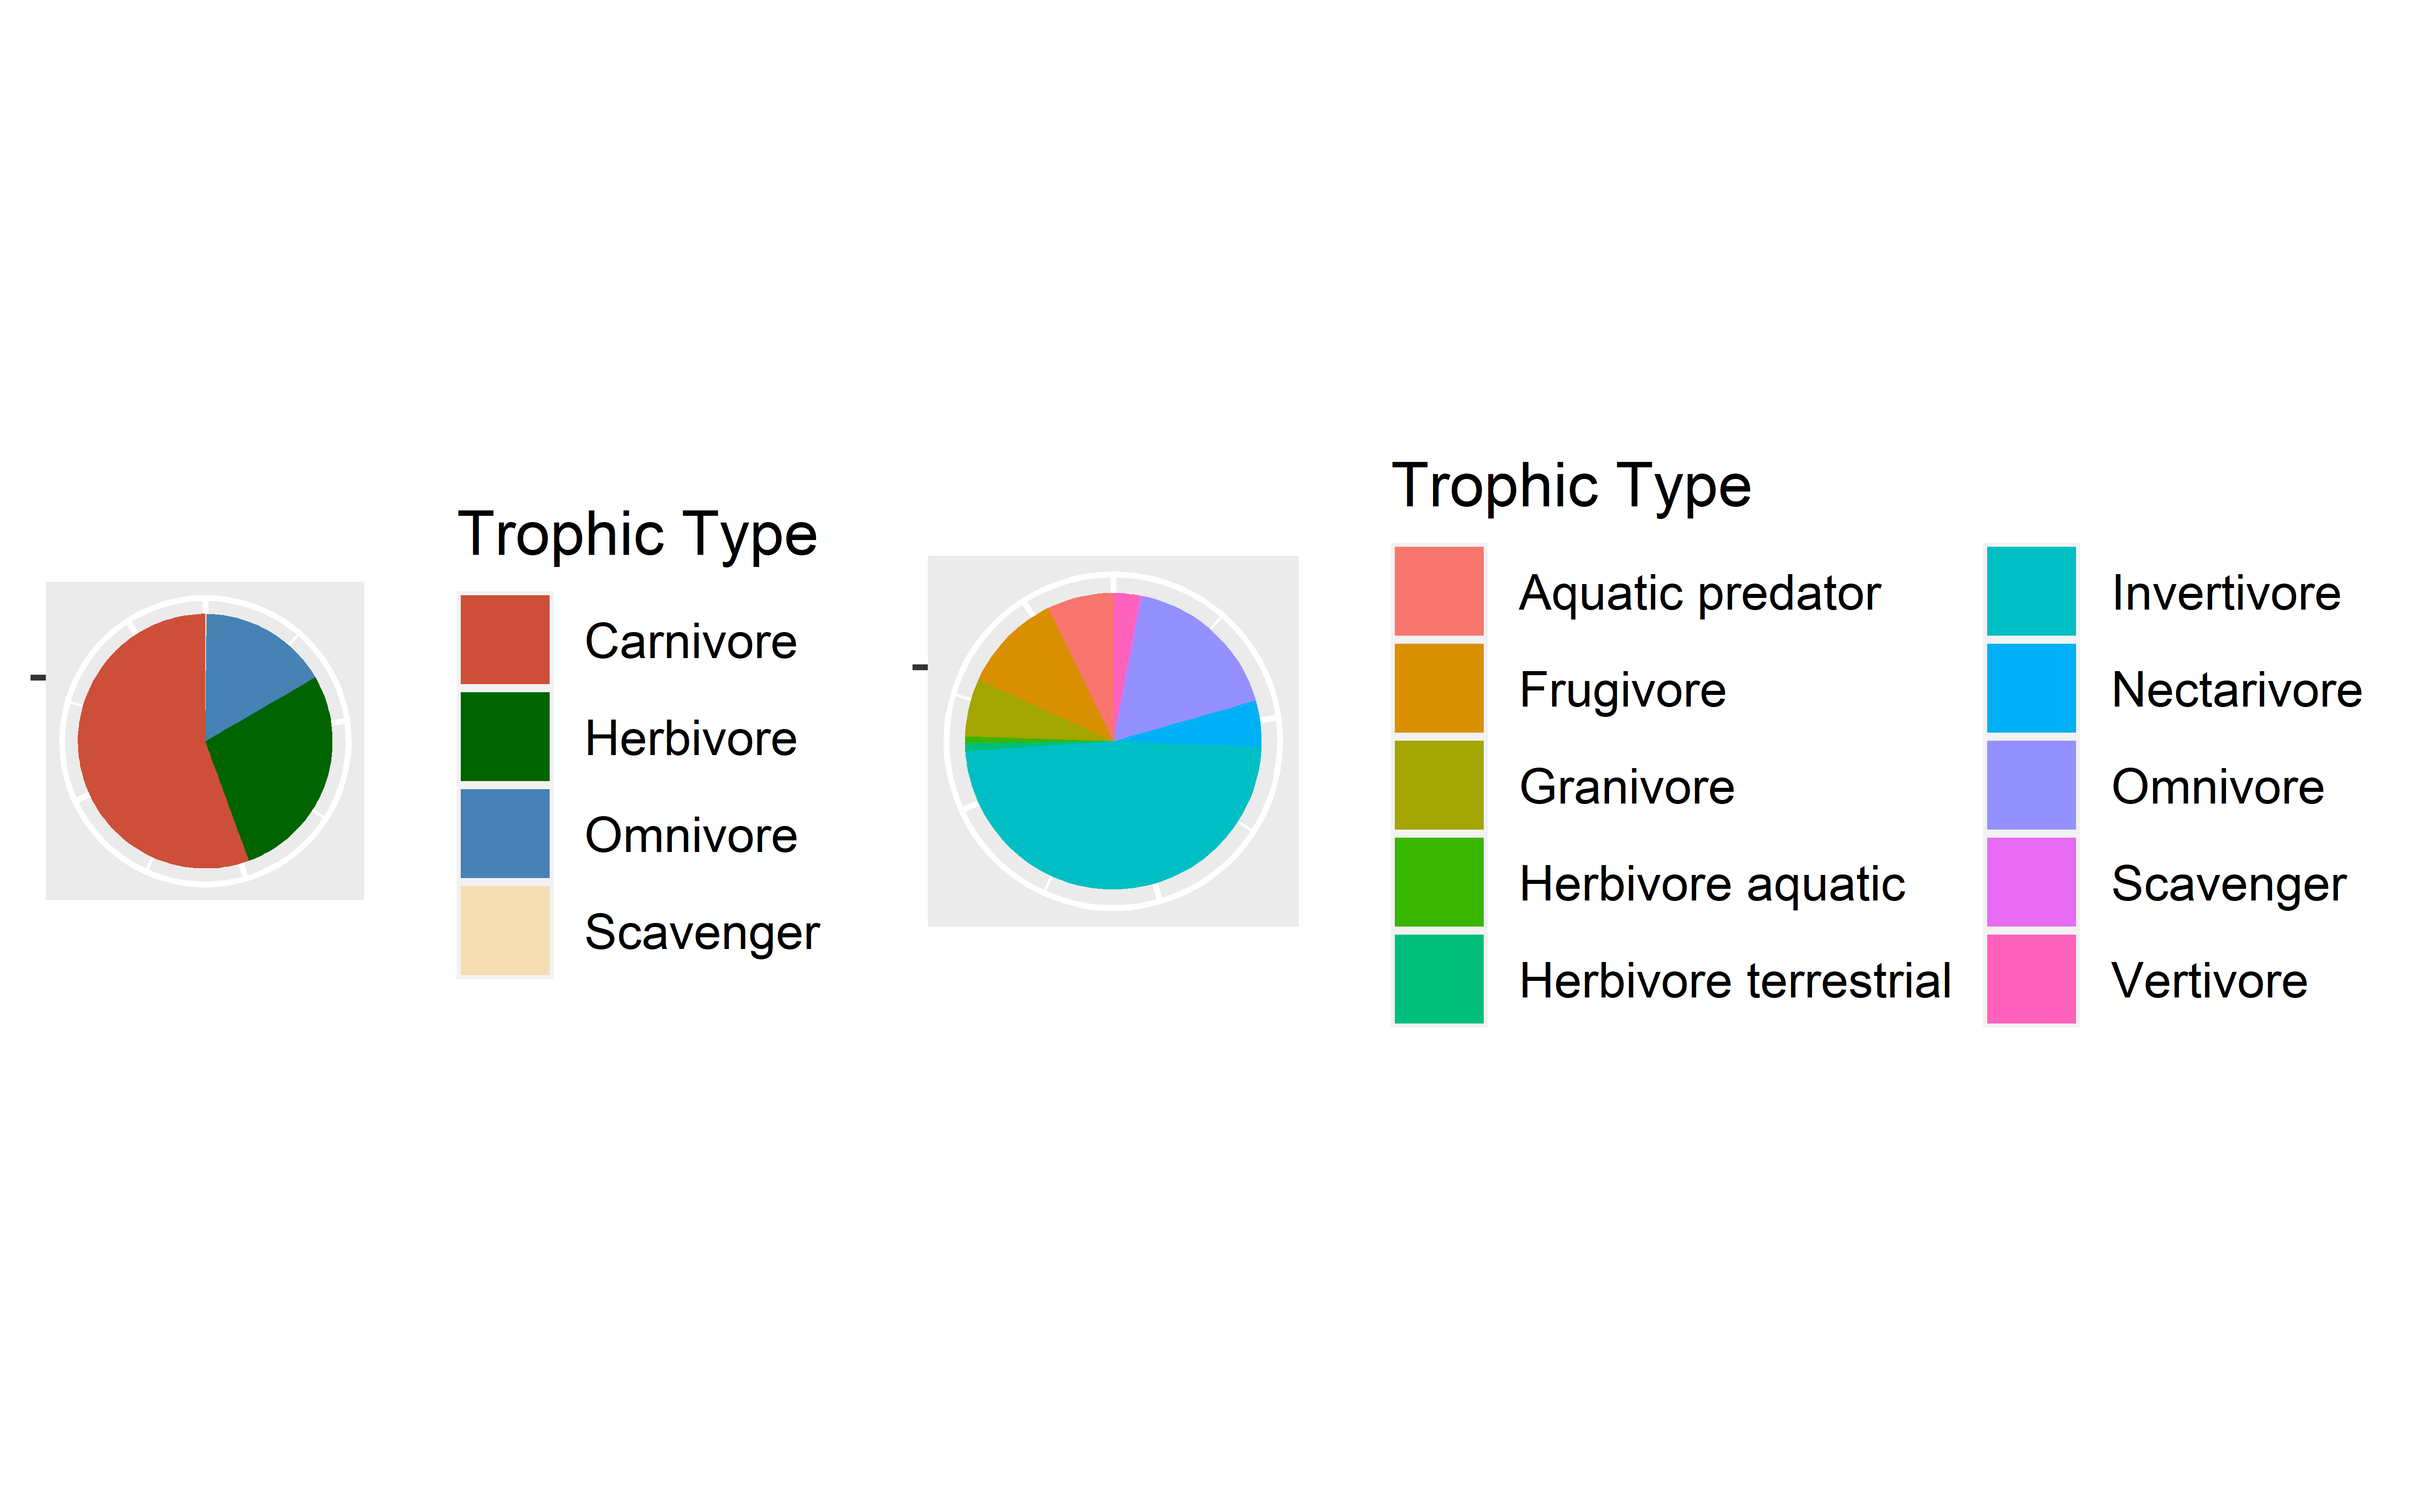
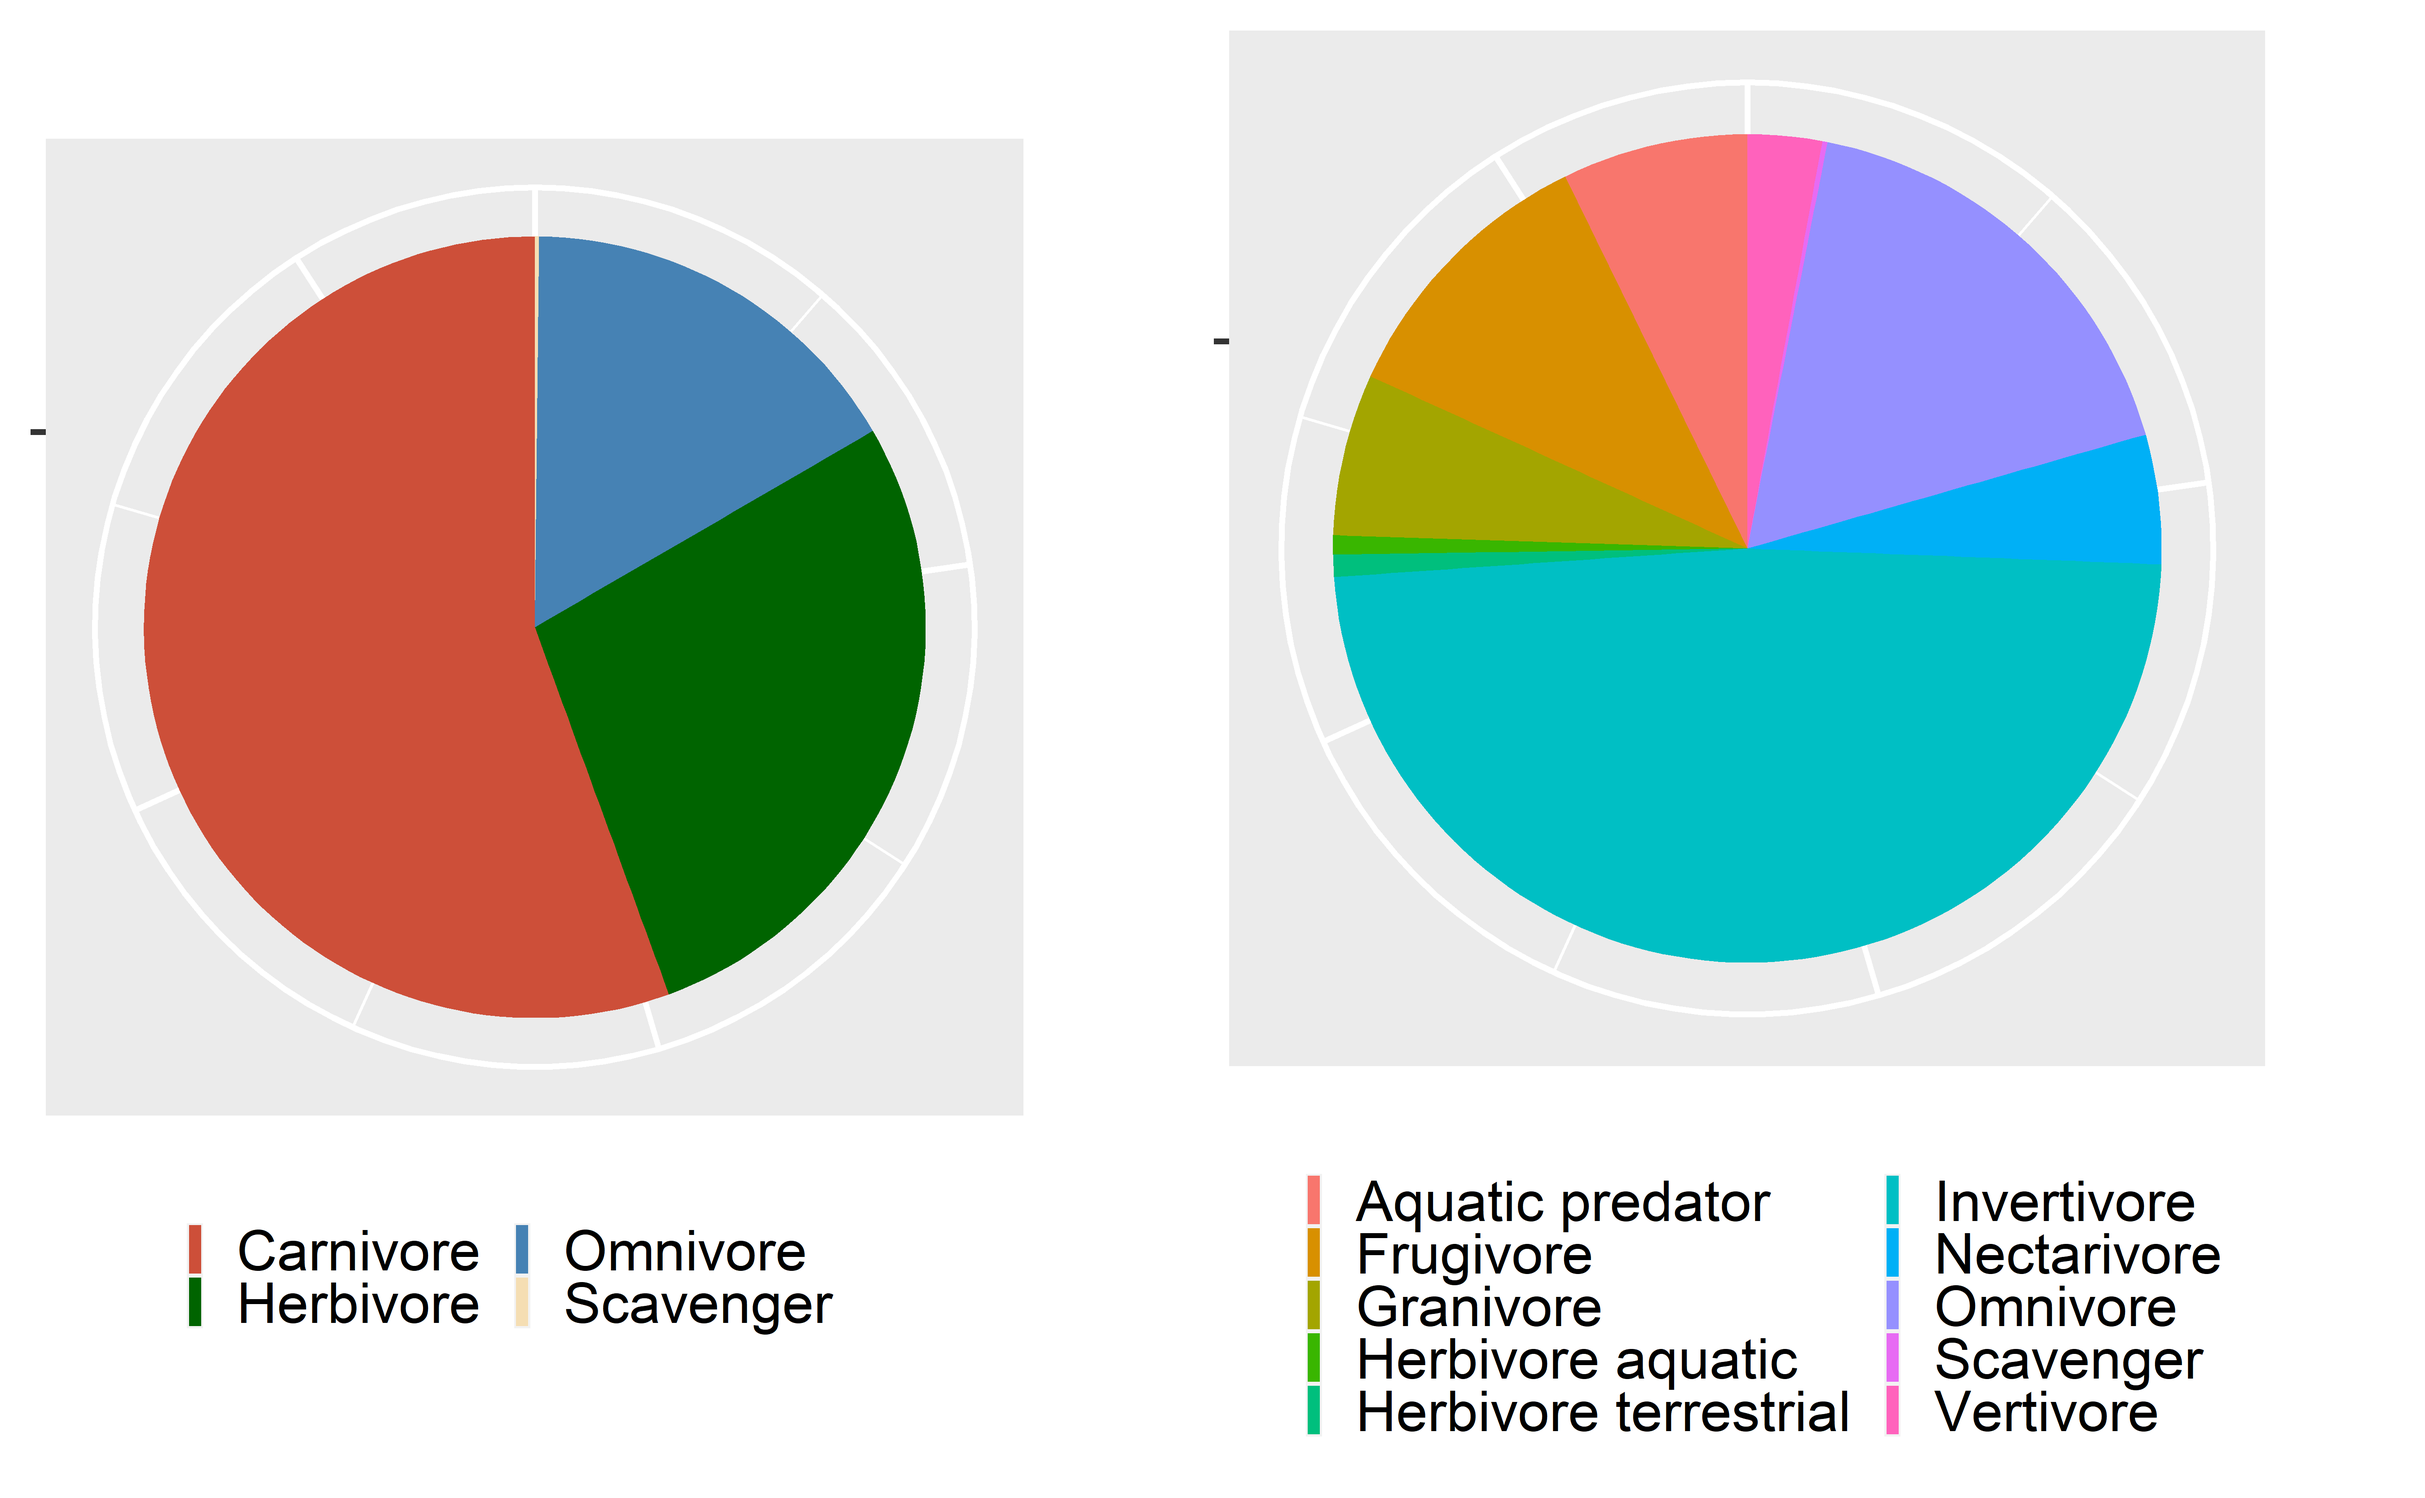
presentation

diff --git a/Birds/presentation-Birds.html b/Birds/presentation-Birds.html
@@ -36,7 +36,7 @@ class: center, middle, inverse, title-slide
 
 #Steps We Took To Tidy The Data
 
-#Firstly we checked the data for NA's
+##Firstly we checked the data for NA's
 
 ```r
 birds_data_og %&gt;% 
@@ -112,10 +112,10 @@ Our data had two options for the 'Type of diet' for the birds:
 
 - General Trophic which included: Carnivore, Herbivore, Omnivore and Scavenger
 
-- Niche Tropic which included: Aquatic Predator, Grainivore, Herbivore terrestrial, Nectarivore, Scavenger, Frugivore, Herbivore Aquatic, Interivore, Omnivore and Vertivore
+- Niche Tropic which included: Aquatic Predator, Grainivore, Herbivore terrestrial, Nectarivore, Scavenger, Frugivore, Herbivore Aquatic, Invertivore, Omnivore and Vertivore
 
 
-&lt;img src="presentation-Birds_files/figure-html/pie chart-1.png" width="80%" style="display: block; margin: auto;" /&gt;
+&lt;img src="presentation-Birds_files/figure-html/pie chart-1.png" width="55%" style="display: block; margin: auto;" /&gt;
 ---
 ##Varience in beak data between the general trophics
 
@@ -145,7 +145,7 @@ modeling whether a bird is an invertivore or not based of the length, depth and 
 
 &lt;img src="presentation-Birds_files/figure-html/Graph for Model for Carnivore-1.png" width="80%" /&gt;
 ---
-#Prediciting Whether a Bird is a Carnivore
+#Prediciting Whether a Bird is a Invertivore
 
 ```r
 #Area under curve
@@ -164,15 +164,6 @@ birds_predict_v%&gt;%
 - Our value for this area 0.74 which is greater than 0.5 which is said to be random choice.
 ---
 
-#Prediciting Whether a Bird is a Herbivore
-
-
-
----
-
-#Prediciting Whether a Bird is a Herbivore
-
----
 #Results of our Investigation
     </textarea>
 <style data-target="print-only">@media screen {.remark-slide-container{display:block;}.remark-slide-scaler{box-shadow:none;}}</style>
